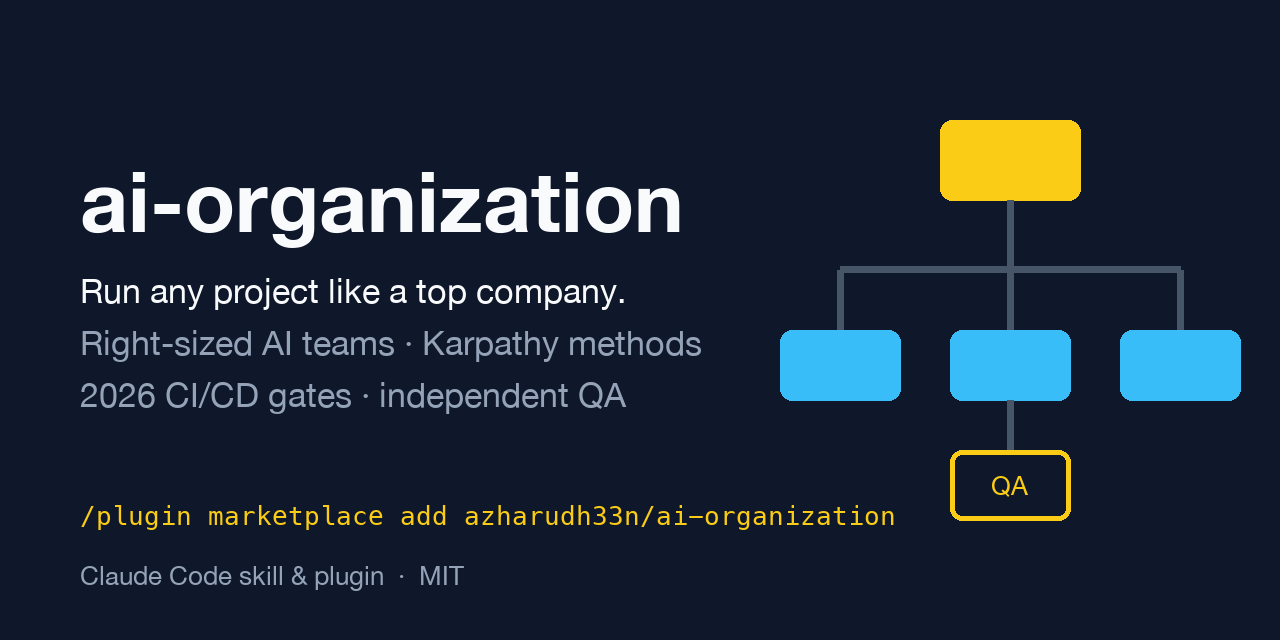
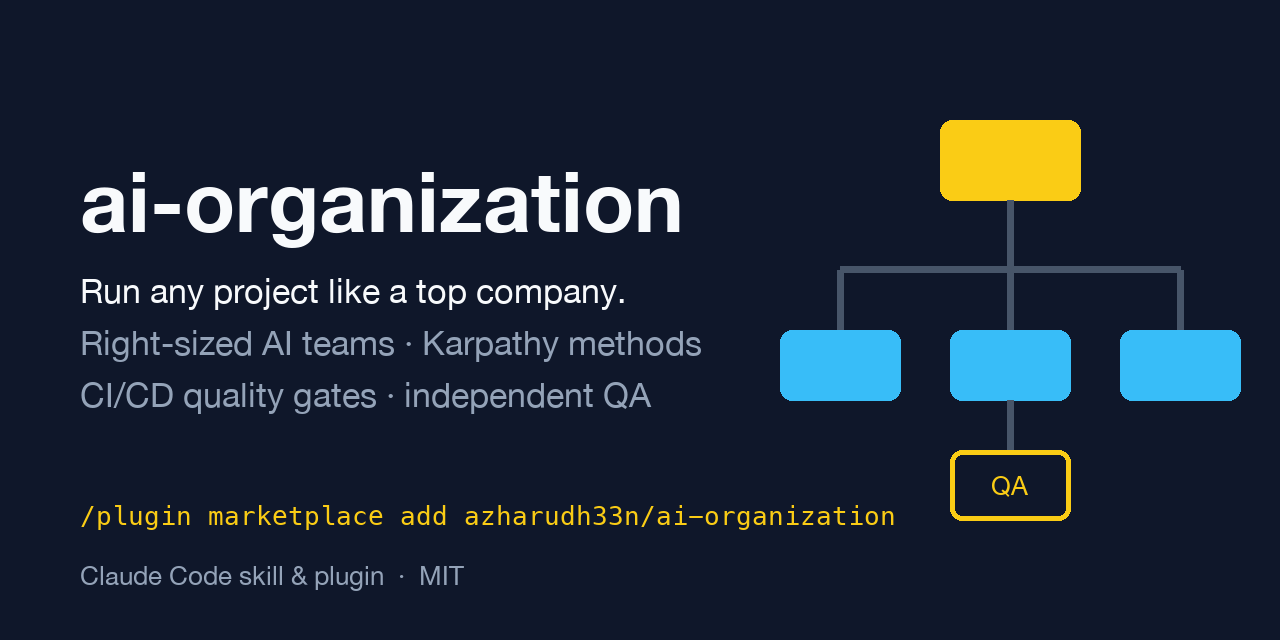
docs: drop year references from site, image and docs
Year labels like "2026 CI/CD" date the copy and add nothing; describe
the practices instead.

Changed region(s): [[0.0625, 0.5938, 0.5, 0.6562]]

diff --git a/site/index.html b/site/index.html
@@ -4,7 +4,7 @@
 <meta charset="utf-8">
 <meta name="viewport" content="width=device-width, initial-scale=1">
 <title>ai-organization: Claude Code skill for multi-agent project orchestration</title>
-<meta name="description" content="Open-source Claude Code skill and plugin. Claude acts as CEO of an AI team: right-sized subagents, vetted skills, Karpathy's methods, 2026 CI/CD gates and independent QA. 50% fewer tokens than v0.">
+<meta name="description" content="Open-source Claude Code skill and plugin. Claude acts as CEO of an AI team: right-sized subagents, vetted skills, Karpathy's methods, modern CI/CD gates and independent QA. 50% fewer tokens than v0.">
 <meta name="keywords" content="Claude Code skill, Claude Code plugin, multi-agent orchestration, AI agent team, subagents, Agent Skills, SKILL.md, Karpathy, CI/CD, AI QA">
 <meta name="author" content="azharudh33n">
 <meta name="robots" content="index, follow">
@@ -15,7 +15,7 @@
 <meta property="og:type" content="website">
 <meta property="og:site_name" content="ai-organization">
 <meta property="og:title" content="ai-organization: run any project like a top company with Claude Code">
-<meta property="og:description" content="Right-sized AI teams, vetted skills, Karpathy's methods, 2026 CI/CD gates and independent QA. Open source, MIT.">
+<meta property="og:description" content="Right-sized AI teams, vetted skills, Karpathy's methods, modern CI/CD gates and independent QA. Open source, MIT.">
 <meta property="og:url" content="https://azharudh33n.github.io/ai-organization/">
 <meta property="og:image" content="https://azharudh33n.github.io/ai-organization/social-preview.png">
 <meta property="og:image:width" content="1280">
@@ -23,7 +23,7 @@
 <meta property="og:image:alt" content="ai-organization: run any project like a top company">
 <meta name="twitter:card" content="summary_large_image">
 <meta name="twitter:title" content="ai-organization: run any project like a top company with Claude Code">
-<meta name="twitter:description" content="Right-sized AI teams, vetted skills, Karpathy's methods, 2026 CI/CD gates and independent QA.">
+<meta name="twitter:description" content="Right-sized AI teams, vetted skills, Karpathy's methods, modern CI/CD gates and independent QA.">
 <meta name="twitter:image" content="https://azharudh33n.github.io/ai-organization/social-preview.png">
 
 <script type="application/ld+json">
@@ -134,7 +134,7 @@ footer{padding:32px 0;color:var(--muted);font-size:14px;border-top:1px solid var
         <div class="card"><h3>Right-sized, not bloated</h3><p>Solo, Squad or Company tier, chosen before anyone is hired. A README fix stays a one-person job.</p></div>
         <div class="card"><h3>Separation of duties</h3><p>Whoever builds a deliverable never grades it. Benchmarks, acceptance tests, reviews and fact-checks go to someone else.</p></div>
         <div class="card"><h3>Karpathy's operating system</h3><p>Think before acting, simplicity first, surgical changes, and checks that pass or fail. A locked-eval loop handles any metric goal.</p></div>
-        <div class="card"><h3>2026 CI/CD from day one</h3><p>Required checks, merge queues, pinned actions, OIDC, SLSA provenance, preview environments and canary releases with automatic rollback.</p></div>
+        <div class="card"><h3>Production CI/CD from day one</h3><p>Required checks, merge queues, pinned actions, OIDC, SLSA provenance, preview environments and canary releases with automatic rollback.</p></div>
         <div class="card"><h3>Independent QA</h3><p>A fresh agent that never saw the build checks every Definition of Done item and records evidence.</p></div>
         <div class="card"><h3>Token-efficient</h3><p>About 2,000 tokens on trigger. Playbooks load only for the departments you staff.</p></div>
       </div>

diff --git a/skills/ai-organization/references/cicd.md b/skills/ai-organization/references/cicd.md
@@ -63,4 +63,4 @@ Track the five DORA metrics. Throughput is change lead time, deployment frequenc
 
 ## Sources
 
-GitHub secure-use guide (docs.github.com/en/actions/reference/security/secure-use) · workflow lockfiles GA, 2026-10-28 (github.blog changelog) · CISA alert on CVE-2025-30066, 2025-03-18 · artifact attestations (docs.github.com/en/actions/concepts/security/artifact-attestations) · SLSA v1.2 · Dependabot default cooldown, 2026-07-14 · merge queue docs · dora.dev trunk-based development and DORA metrics guides · DORA 2025 State of AI-assisted Software Development · Argo Rollouts analysis · Claude Code GitHub Actions docs · zizmor audits (docs.zizmor.sh).
+GitHub secure-use guide (docs.github.com/en/actions/reference/security/secure-use) · workflow lockfiles (github.blog changelog) · CISA alert on CVE-2025-30066, 2025-03-18 · artifact attestations (docs.github.com/en/actions/concepts/security/artifact-attestations) · SLSA v1.2 · Dependabot default cooldown · merge queue docs · dora.dev trunk-based development and DORA metrics guides · DORA 2025 State of AI-assisted Software Development · Argo Rollouts analysis · Claude Code GitHub Actions docs · zizmor audits (docs.zizmor.sh).

diff --git a/docs/evolution/00-brief.md b/docs/evolution/00-brief.md
@@ -17,7 +17,7 @@ This brief is the skill run on itself: Phase 0 of ai-organization, with the skil
 3. Detailed playbooks live in `references/`, one level deep, each linked from `SKILL.md` with a note on when to read it.
 4. On the eval suite, v1's assertion pass rate is higher than v0's, with no case scoring lower.
 5. v1 uses no more tokens than v0 on average across eval runs.
-6. A CI/CD playbook reflects 2026 practice (supply-chain hardening, required checks, preview envs, progressive delivery, DORA), with sources.
+6. A CI/CD playbook reflects current practice (supply-chain hardening, required checks, preview envs, progressive delivery, DORA), with sources.
 7. The repo's own CI passes: validation, markdown lint, link check and workflow lint, with actions pinned to commit SHAs and least-privilege permissions.
 8. A reviewer who didn't write v1 checks it against this list before publishing.
 
